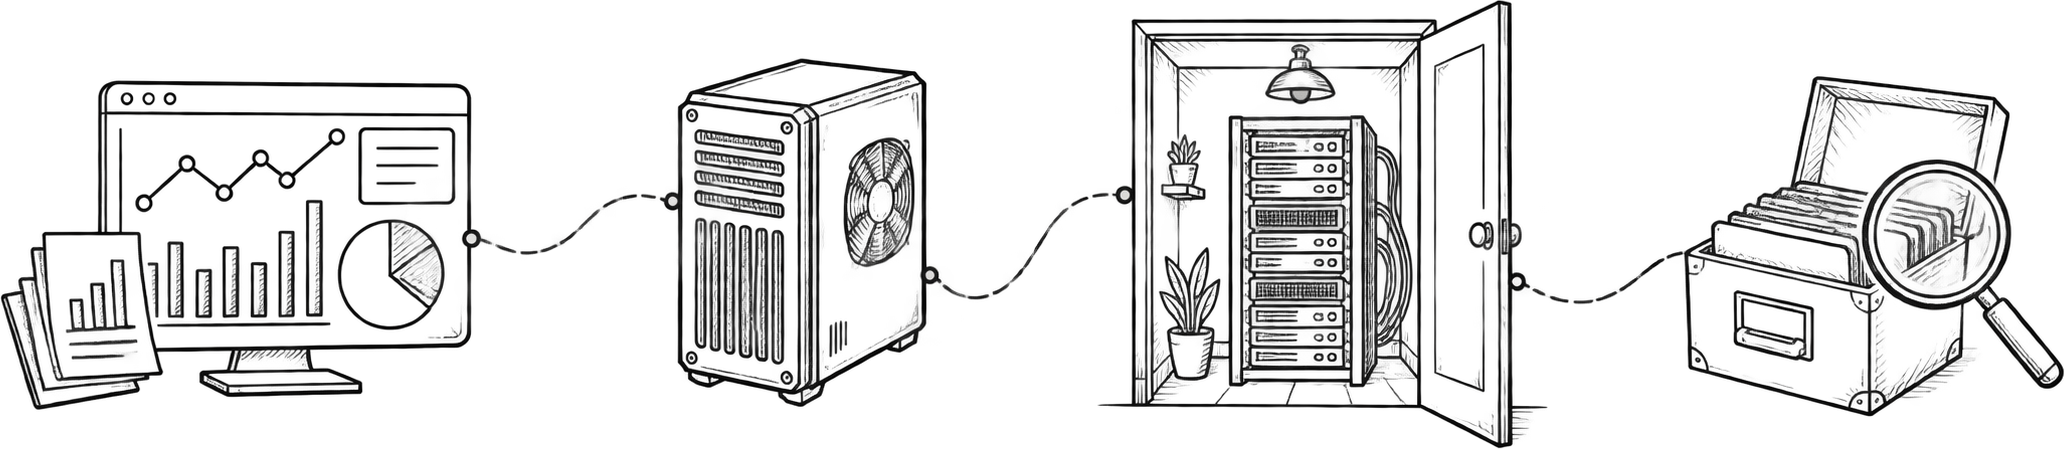
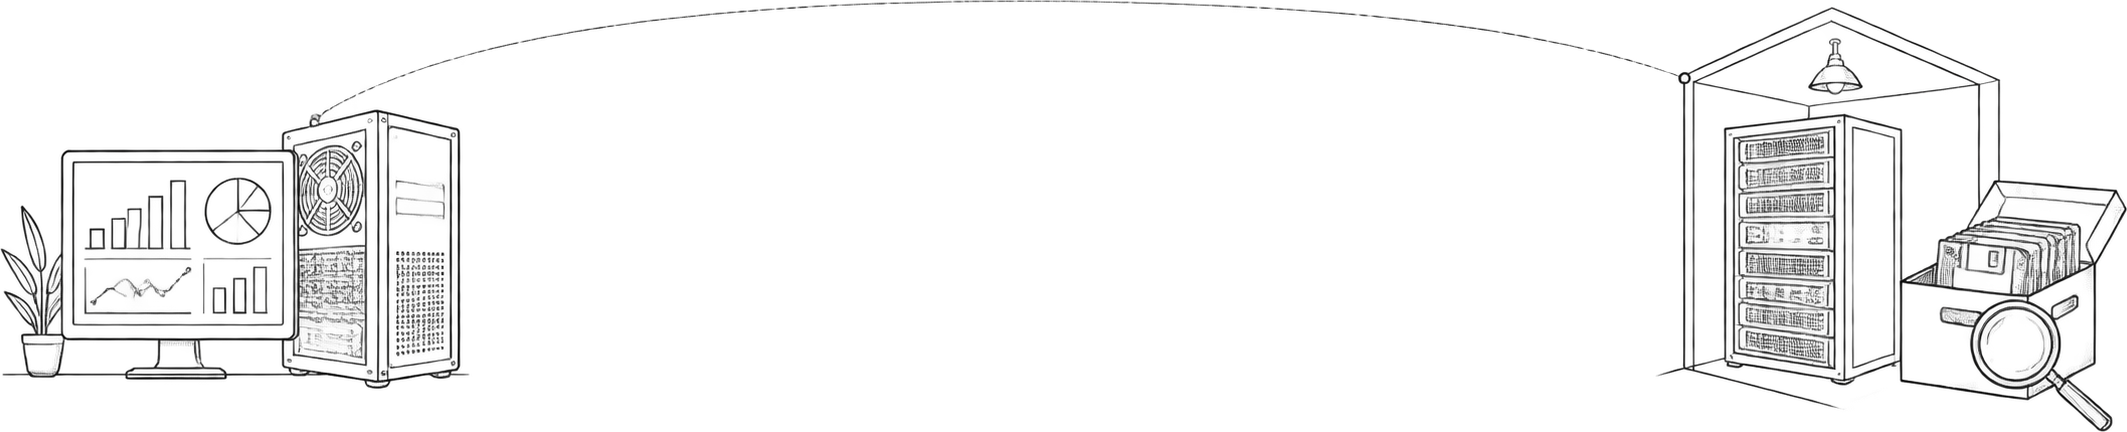
feat: publish Notes on AI, add Sisyphean lexicon entry, and update site philosophy

diff --git a/src/static/css/tailwind.css b/src/static/css/tailwind.css
@@ -4900,6 +4900,22 @@ picture img {
     }
   }
 
+  /* At xl+ the sidebar rails appear (.post-rail-left/-right in the
+     .post-wrap grid, ~L2791) and the article column is no longer centered
+     on the viewport, so the 100vw breakout above would paint straight
+     over them. Bleed only as far as the rail's actual edge - measured in
+     JS (post.njk) into --wide-bleed-left/-right on .post-wrap - falling
+     back to a fixed 1.5rem gutter (always empty, always safe) until that
+     measurement lands. */
+  @media (min-width: 1280px) {
+    .wide-wrap {
+      width: auto;
+      max-width: none;
+      margin-left: calc(-1 * var(--wide-bleed-left, 1.5rem));
+      margin-right: calc(-1 * var(--wide-bleed-right, 1.5rem));
+    }
+  }
+
   /* ── {% annotate %} - highlighted phrase + handwritten comment + squiggly arrow ── */
   /* Default (all viewports, any post): comment flows inline right after the highlight. */
   .note {

diff --git a/src/posts/2026-09-25-notes-on-ai-unsorted.md b/src/posts/2026-09-25-notes-on-ai-unsorted.md
@@ -1,0 +1,110 @@
+---
+title: "Notes on AI (Unsorted)"
+description: "Brain dump of fleeting thoughts on AI, agents, attention, intelligence, and navigating this zeitgeist."
+date: 2026-09-25
+authored_by: human
+tags:
+  - AI
+  - Philosophy
+---
+
+<u>Computers are a bicycle for the mind. AI/LLMs are a plane with too many knobs.</u> 
+
+> I get a lot of thoughts while driving that are very very fleeting. This is one of them
+
+brain dump of all thoughts i’ve been getting around AI, too many bullets, very less cohesion. This is just nat style of thought dumps.
+
+Preface: This is not an anti-AI post, more on self navigating this zeitgeist. AI/LLMs/agents are amazing, they’re changing the very dynamics of knowledge work and helping automate a lot of grunt work. Their research capabilties while novel are <u>helping us explore the latent space</u> and exhausting all possible options to any problem faster. As these models get smarter, its possible that we can solve for all the issues they’re creating in their trail, but that remains to be seen.
+
+(Maybe i just need to touch some grass and this is the result of me dumping my brain with AI based info 12 hours every day at work and at x/reddit otherwise - also called agentpilled)
+
+**On Attention**
+> Less is more, and it has never been more true.
+
+{% image "./src/static/img/notes-on-ai/herbert-simon-attention.png", "In an information-rich world, the wealth of information means a dearth of something else: a scarcity of whatever it is that information consumes - Herbert A. Simon" %}
+
+> This was thought out by someone in the 1970s - a human who understood the importance of attention so far ahead.
+> Cut to 2026, we have been exposing ourself to shorts / reels / social media every waking minute. Work was sort of an escape where you do focus work - but with things like Claude Code - that area is also tapped increasingly to more and more
+> I personally feel these lead to AiDHD AI induced ADHD, feeding off the low attention spans with 100s of things to lose attention to. Its a dangerous combination.
+The relationships of some with AI where it helps them move fast and they like to move fast becomes a unhealthy combination that induces burnout, loss of intelligence and focus and so much more ( i am a patient)
+At this point, its the people who can maintain focus and do things that matter, be able to zoom out can do things.
+Our brain is not designed to withold or ingest this much information.and now its even worse
+
+
+**On Intelligence**
+> Thinking cannot and shouldn’t be automated. The output of anything should be a factor of careful thought, and one-shotting it will just default to mediocrity.
+> A baseline knowledge of anything that you do with it is extremely important. Novel areas need stronger considerations and scrutiny.
+> The beauty of something great is how simple it is, the compression and simplification of things is the step forward, not making it even more confusing than it is. 
+> Using AI as a substitute for thinking is going to be the last nail in the coffin for human growth and evolution. We will start regressing and there’s hints of that already.
+> These models tend to talk in a language that is beyond how humans work, maybe our ability to approximate and zoom out is better than AI still.
+
+
+{% image "./src/static/img/notes-on-ai/screen-time-eeg.jpg", "Changes to brain EEGs based on screen time" %}
+
+
+
+**On how do we tap into this**
+> It is a great multiplier, it just expands on who you are and amplifies it to the extent you want.
+> Any company that tries offloading doing everything with AI that is not super specific and verifiable e.g. Navier stokes will find themselves largely unsucessful, but many will try. 
+> more work needs to happen on how we use these things in a way thats helpful and the way we separate things where human oversight is really important to keep things afloat. We have the intelligence but we dont know what to do with it properly (than make fancy demos or sloppy htmls)
+> some companies that stay a little more conservative on using AI, will probably win.
+> Using AI in a bottled and conservative fashion for very specific tasks seems to be the right approach. with that one can also get away with weaker/dumber models e.g. GLM 5.3 flash is a pleasure to work with.
+> The game now becomes managing AI the right way - how do you take a bunch of AI output and reason through it and yield something useful out of it.
+
+**On humans**
+> Language is not thinking, i dont need to be a professor to understand that intuition works on a layer below langauge. You often are not able to put your thoughts into words - why is that. Even LLMs are not just parrots, they internalize more that we think - Anthropic has great artciles on that.
+> How human writing tends to be more understandable than AI even with some of its issues in structure remains to be understood. 
+> The more i work with the current gen AI i.e. LLMs, the more i realize that good humans with enough ability to think though problems are not replaceable anytime soon. The thinking is much more different/parallel than LLMs. there are 2 types of **intelligence** at play here and they can be complementary if things are done right.
+> Human writing is much more valued and important now, since there is dearth of writing available in supply. To the point that people tend to appreciate it something that has existing for millenia. 
+> I see at work instances of people’s claudes talking to each other, just sharing the output to each other as being just a middleman to information. That is horrible on too many levels for me to write and think thriough. <u>We are not meant to be pigeons for the AI.</u>
+> Many understand this and now classify output to be something for AI vs humans, problem being it’s a common langauge that both use. (Though experiment on LLMs using a different langauge for their comms vs humans is interesting)
+> Some models tend to talk more naturally than others. Likeability of the model ala its personality seems to matter as much as capability - very much liek humans (same point as before on how it understates how humans work)
+> What LLMs expose is also an inward look into how humans work and behave, now that we have a paralel biome that can do similar work but differently. 
+> It exposes atleast to me how humans are much more complicated creatures lol. 
+> That variety of thought in humans (maybe call it temperature + different models) creates a nexus where things are achieved and identities are formed.
+> It also exposes how most of work is bullshit and its often an amalgamation of many people trying to do something and its a very very very lossy funnel.
+> This is where productivity is defined but i’d argue its not measurable. Measuring productivity in the age of AI (which is very much related to focus) becomes harder. anyone can produce fairly good results that could mean nothing.
+> Smaller teams become more important and powerful?
+
+
+
+**On society**
+> I can also see how this may lead to collapsing a lot of what holds society together (p(doom)) without AI ever intending to do so. Like how social media and the attention economy did in some fashion already.
+> The more things are different , the more they stay the same. AI in wrong hands can continue the thought control and mass control as religion and oligarchies have continued to do, except this time it can be even crazier.
+> It has consumed a lot of headspace but very few people are maintaining the focus required to actually create net new output
+> The chances to lose focus are much more and its much harder to maintain a clear direction and depth
+> When it works, it works wonders. The chances of it working is increasing as models get smarter
+> Useless one-shot demos help explain the ceiling but not the floor
+The urgency of this being a generational event and wanting to participate for monetary reasons or othwreise creates a lot of paranoia.
+Same is created while working on 100s of agents creating mindless outputs. Maybe this is how humanity ends - tokenmaxxing kills everyone.
+Tokens per sec now outweigh human reading speed. Combine that with multiple agents (usually 10 or more) and we’re in a place where there is an order of magntiude of difference of what the AI is generating vs what a human can review. and that abstraction layer becomes more multiplicative by the day. This creates a vacuum / sludge of output that no one will ever read. Its almost generating all possible word combinations in the latent space and equating that with thought.
+
+**On Coding**
+For coding, some argue it doesnt even matter. Everything becomes non-deterministic, bionic for the lack of a better word. 
+
+**Who should get access**
+> Open-weights model are the first step in making sure this remains a democratic, society friendly innovation.
+> Somehow Chinese are the current “anti-heroes” with challenging Anthropic and OpenAI but wtih a differnet set of intentions behind it. 
+> Self owned hardware, data, privacy are all much much more important now
+
+
+Other references
+
+e.g. Claude addressed some of its claudisms with Opus 5.5
+
+{% image "./src/static/img/notes-on-ai/claude-opus-5-5-announcement.jpg", "Claude tweet on Opus 5.5 natural communication" %}
+
+
+
+{% image "./src/static/img/notes-on-ai/parasite-extraction-quote.png", "Second is extraction: You are paying the parasite to be harvested, milked, sucked dry" %}
+
+
+
+
+- I was a huge proponent to this technology and i still am, but its at a point where i see myselves taking a step back to not lose that focus. 
+- Often times at work, i dont know deep enough about topics compared to when i did work myself.
+- Its not even a product of AI, its the product of AI making work delegatable in a way that promotes not thinking. That is the biggest problem - AI encourages you to stop thinking and let it do all the thinking. 
+- That allows you to just spawn off claude threads without giving an iota of thought.
+- It works 70% of the time but there is a layer of vaseline on everything
+- A lot of output makes the work look impressive without having a share of that zoomed out thinking and seeing it from different angles 
+- They also come at the cost of replacing a natural order of how expertise was generated in any field.

diff --git a/src/lexicon/sisyphean.md b/src/lexicon/sisyphean.md
@@ -1,0 +1,18 @@
+---
+title: "Sisyphean"
+date: 2026-09-25 18:38:00
+description: "A task that is endlessly laborious, futile, and can never truly be completed—yet demanding relentless effort."
+tags: ["Philosophy", "Engineering"]
+author: "Greek Mythology / Albert Camus"
+source: "The Myth of Sisyphus"
+sourceUrl: "https://en.wikipedia.org/wiki/The_Myth_of_Sisyphus"
+---
+{% image "./src/static/img/lexicon/sisyphean.jpg", "Sisyphean: rolling a boulder up a hill for eternity" %}
+
+Denoting a task that can never be completed, requiring endless, repetitive labor that rolls back to the starting line the moment progress is made.
+
+The term originates from Greek mythology. King Sisyphus of Corinth was condemned by the gods to roll an immense boulder up a steep hill for eternity. Each time he reached the summit, the weight of the stone forced it to tumble back down into the plains, obliging him to descend and begin the climb all over again.
+
+In everyday engineering and knowledge work, sisyphean tasks are routine: chasing zero inbox, resolving endless merge conflicts, maintaining fast-decaying dependencies, and pruning tech debt that regrows overnight. 
+
+Yet as Albert Camus observed in *The Myth of Sisyphus*, recognizing the futility doesn't have to breed despair. The constant push against the boulder is where craft, patience, and purpose reside: *"The struggle itself toward the heights is enough to fill a man's heart. One must imagine Sisyphus happy."*

diff --git a/docs/CHANGELOG.md b/docs/CHANGELOG.md
@@ -5,6 +5,13 @@ All notable changes to this project will be documented in this file.
 The format is based on [Keep a Changelog](https://keepachangelog.com/en/1.0.0/),
 and this project adheres to [Semantic Versioning](https://semver.org/spec/v2.0.0.html).
 
+## [2.7.13] - 2026-09-25
+### Added
+- Blog: Published "Notes on AI (Unsorted)" (`src/posts/2026-09-25-notes-on-ai-unsorted.md`) with embedded images from the vault.
+- Lexicon: Added "Sisyphean" definition, commentary, and editorial sketch illustration (`src/lexicon/sisyphean.md`).
+- About: Added "Not writing down thoughts means starting all over." and "Goal in life is to be net positive." to Things I've Learned.
+- About & Colophon: Adopted Kepano's (@kepano, based guy) "Write once, publish everywhere / your personal site should be the source of truth" and "There are many like it, but this one is mine" as the site's foundational philosophy.
+
 ## [2.7.12] - 2026-09-24
 ### Changed
 - Notes: Refined Opus 5.5 note structure to keep only the `/wait-what` introduction and the concluding punchline on Claude's verbosity around the screenshot.
